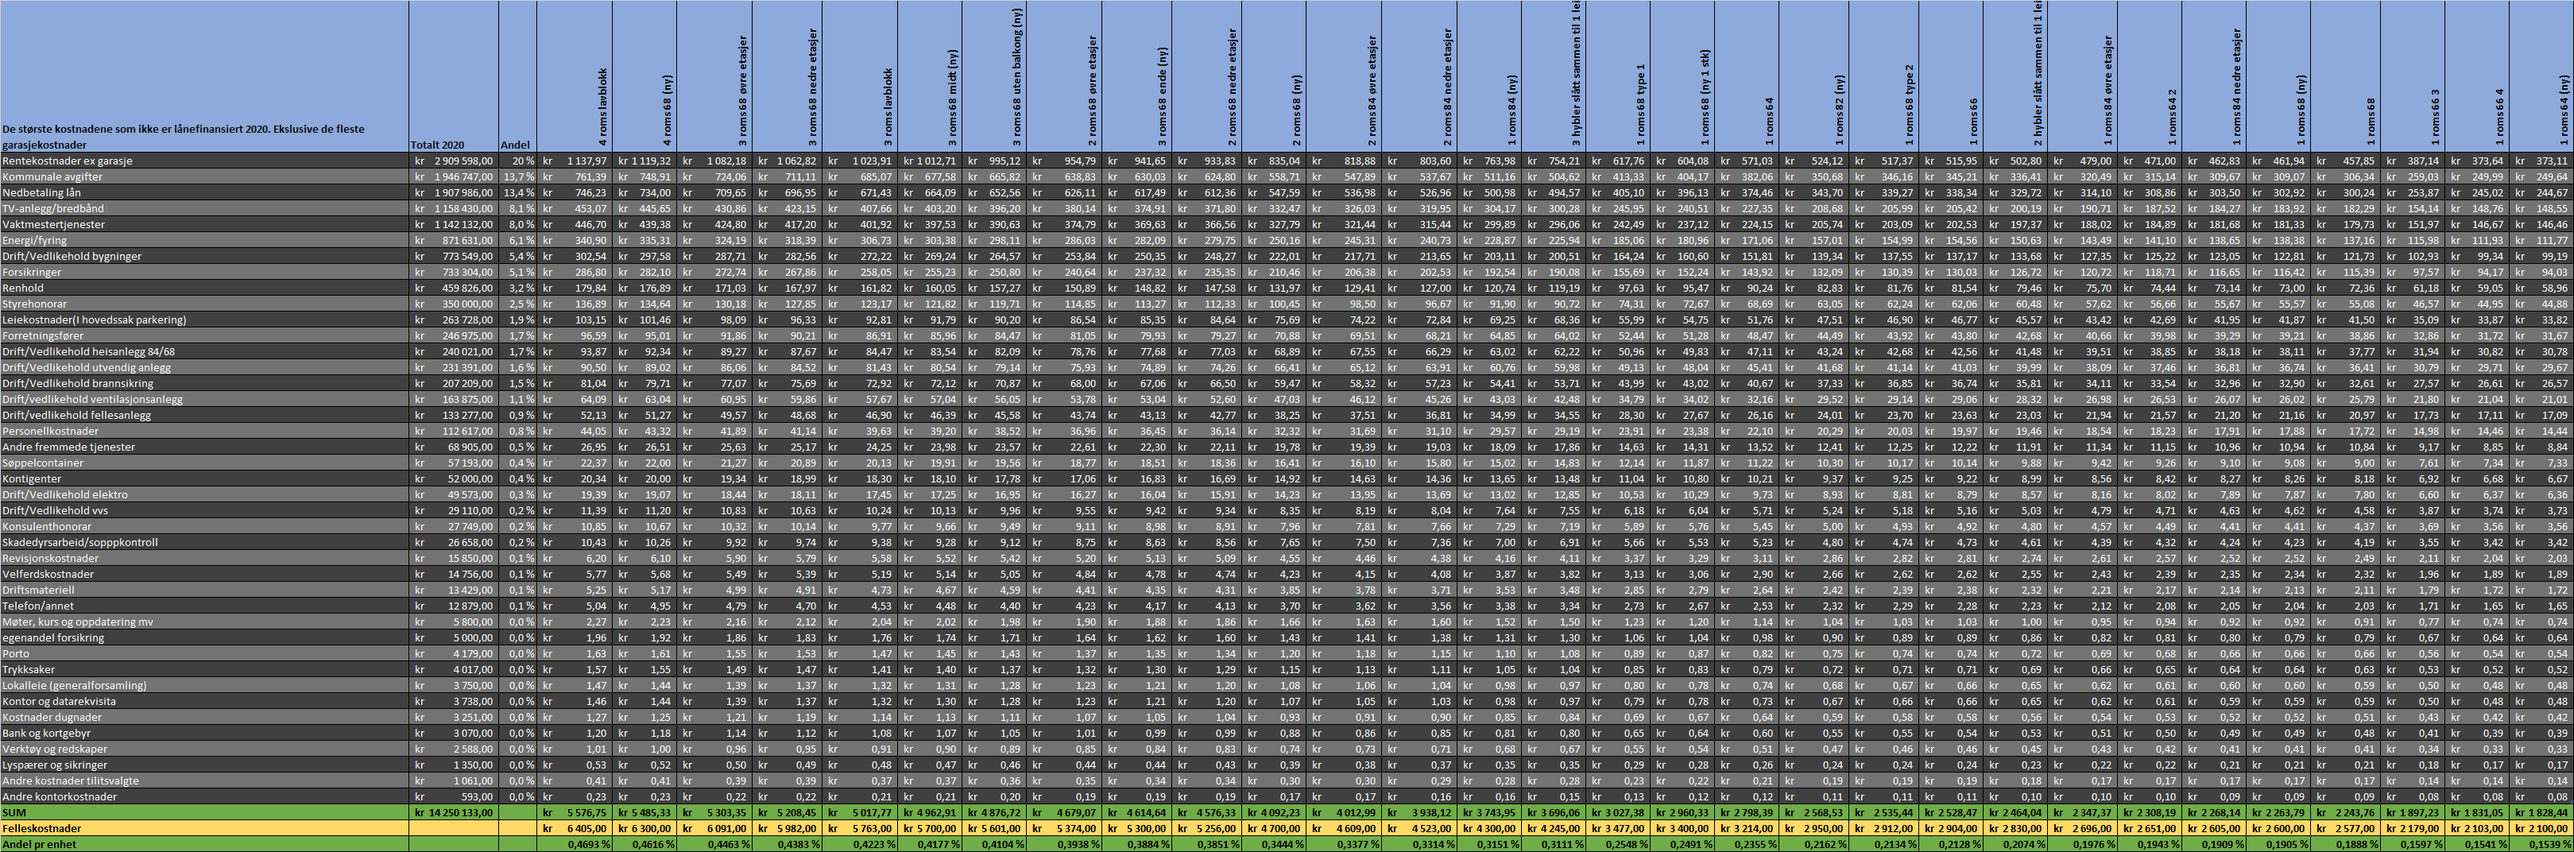
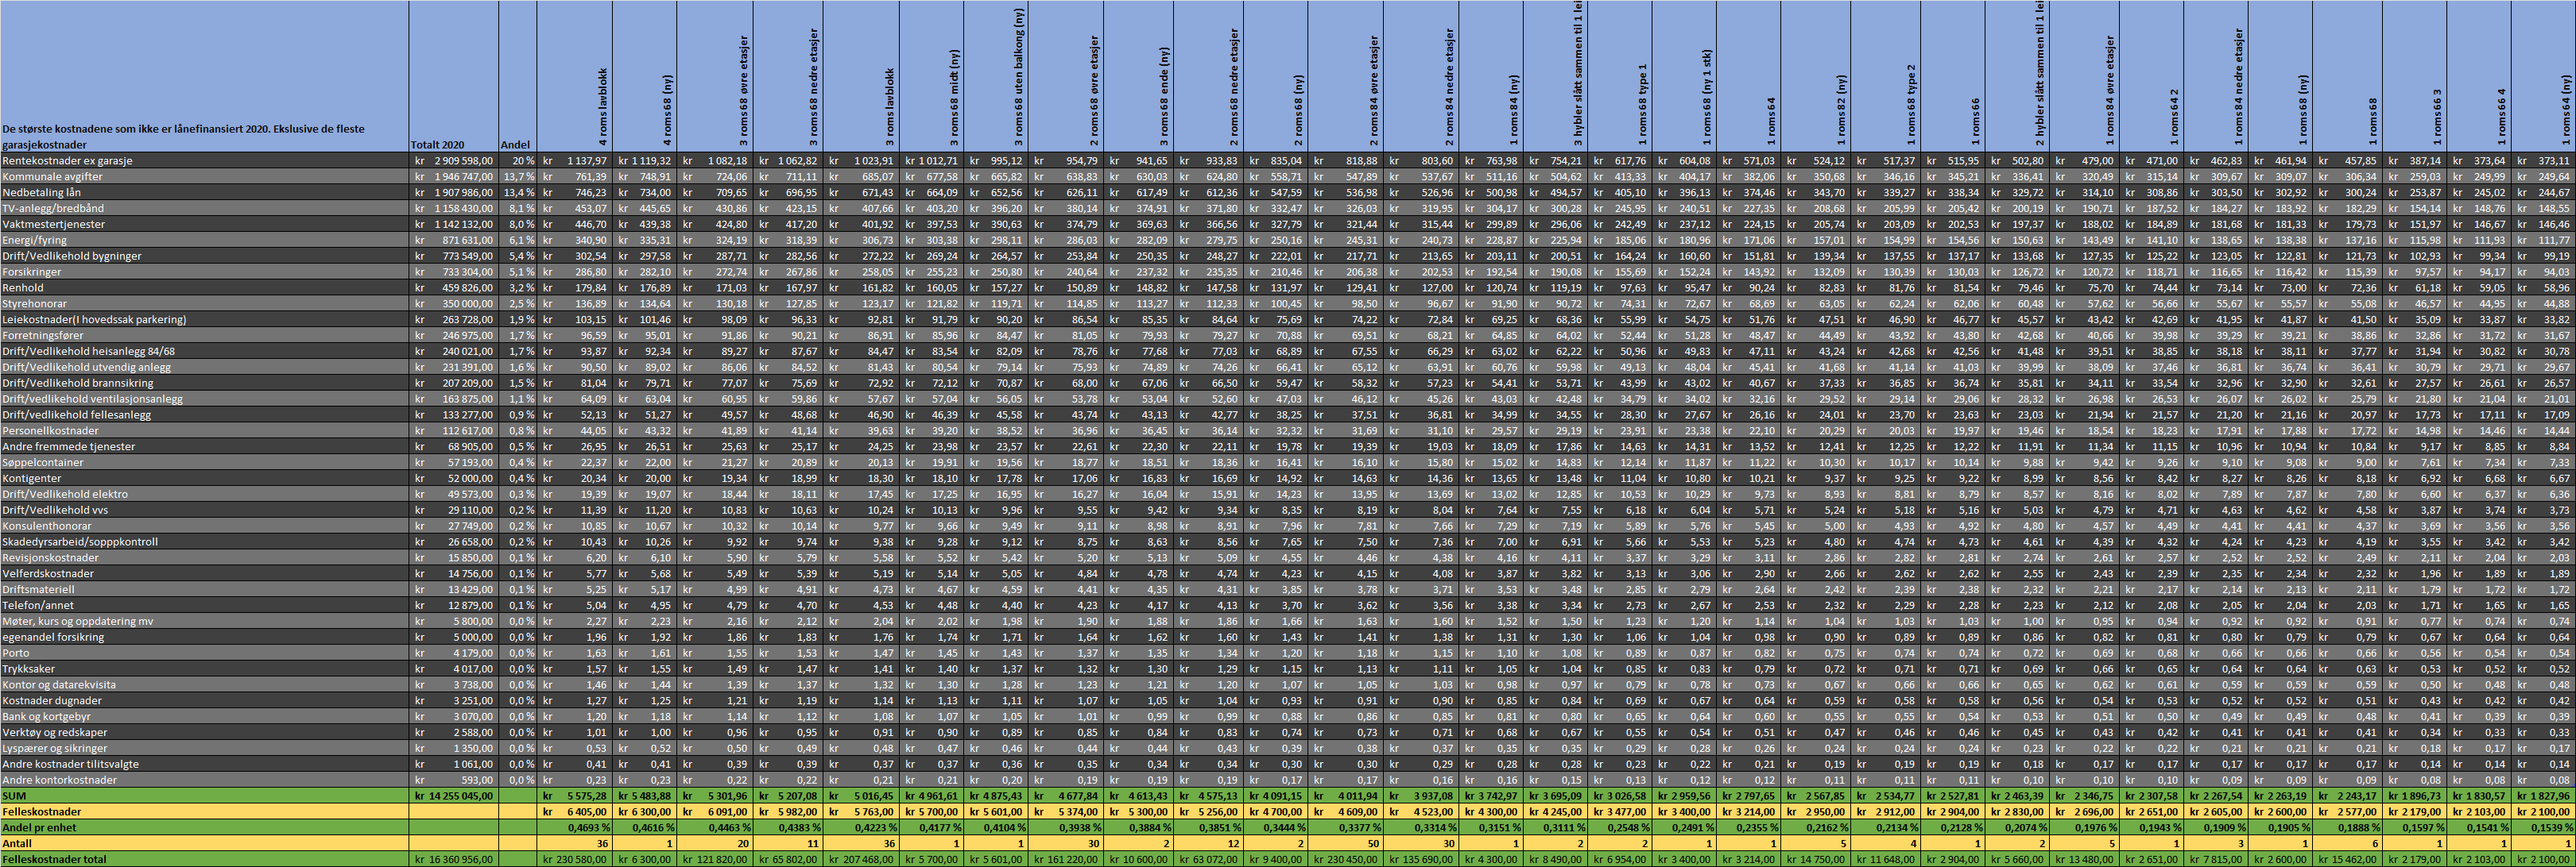
update

diff --git a/content/forowners/finance/_index.md b/content/forowners/finance/_index.md
@@ -19,7 +19,9 @@ Felleskostnadene fordeles basert på fordelingsnøkkelen til hver leilighet. Ned
 
 Totalsummen samt fordelingen av disse kostnadene pr leilighetstype basert på fordelingsnøkkelen. 
 
-![Felleskostnader](felleskostnader2020.png "Felleskostnader Klikk for stor versjon")
+![Felleskostnader](felleskostnader2021.png "Felleskostnader 2021 Klikk for stor versjon")
+
+![Felleskostnader](felleskostnader2020.png "Felleskostnader 2020 Klikk for stor versjon")
 
 ### Felleskostnadene har steget en god del i 2017-2018. Når vil de bli satt ned igjen til tidligere nivå?
 
